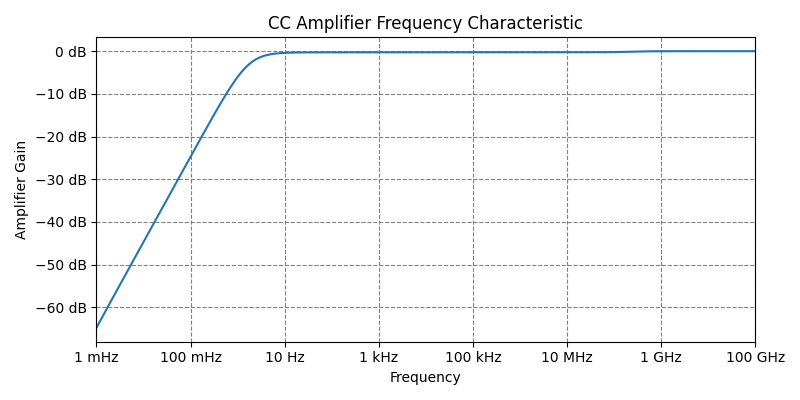
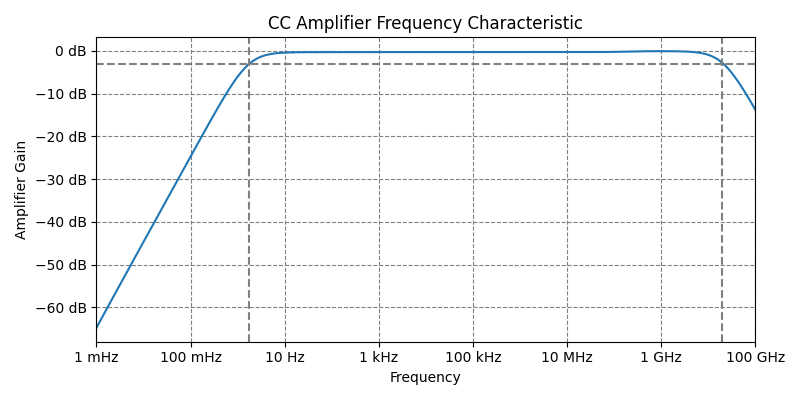
find bandwidth of cc amp and plot graph

Changed region(s): [[0.125, 0.12, 0.9375, 0.24], [0.125, 0.33, 0.9375, 0.36], [0.0625, 0.12, 0.125, 0.15]]

diff --git a/bjt-amp-lab/source code/CE-freq.py b/bjt-amp-lab/source code/CE-freq.py
@@ -17,6 +17,12 @@ def main():
 
     vout = np.array(vout)
     freq = rawdata.get_frequency()
+    max_vout = np.max(vout)
+    vout_3dB = np.max(vout) - 3
+    freq_cutoff_index = np.where(np.around(vout_3dB, decimals=0)
+                                 == np.around(vout, decimals=0))
+    low_cutoff_freq = freq[freq_cutoff_index[0][0]]
+    high_cutoff_freq = freq[freq_cutoff_index[0][1]]
 
     # vitualize data
     figure, axis1 = plt.subplots(figsize=(8, 4))
@@ -34,6 +40,9 @@ def main():
     axis1.grid(True, which="major", ls="dashed", color='grey')
 
     # display data
+    plt.axhline(y=vout_3dB, color='gray', linestyle='--')
+    plt.axvline(x=low_cutoff_freq, color='gray', linestyle='--')
+    plt.axvline(x=high_cutoff_freq, color='gray', linestyle='--')
     plt.tight_layout()
     plt.savefig(f'./figure/{filename[10:][:-4]}-freq.png')
     plt.show()
@@ -58,9 +67,12 @@ def find_bandwidth():
                                  == np.around(vout, decimals=0))
     low_cutoff_freq = freq[freq_cutoff_index[0][0]]
     high_cutoff_freq = freq[freq_cutoff_index[0][1]]
+    print(freq)
+    print(low_cutoff_freq)
+    print(high_cutoff_freq)
     print(f'Bandwidth: {high_cutoff_freq - low_cutoff_freq} Hz')
 
 
 if __name__ == '__main__':
-    # main()
-    find_bandwidth()
+    main()
+    # find_bandwidth()

diff --git a/bjt-amp-lab/source code/CC-freq.py b/bjt-amp-lab/source code/CC-freq.py
@@ -15,6 +15,13 @@ def main():
 
     vout = np.array(vout)
     freq = rawdata.get_frequency()
+    max_vout = np.max(vout)
+    vout_3dB = np.max(vout) - 3
+    freq_cutoff_index = np.where(np.around(vout_3dB, decimals=0)
+                                 == np.around(vout, decimals=0))
+    low_cutoff_freq = freq[freq_cutoff_index[0][0]]
+    high_cutoff_freq = freq[freq_cutoff_index[0][2]]
+    print(f'Bandwidth: {high_cutoff_freq - low_cutoff_freq} Hz')
 
     figure, axis1 = plt.subplots(figsize=(8, 4))
     axis1.set_xscale('log')
@@ -30,6 +37,9 @@ def main():
     axis1.xaxis.grid(True, which='minor', ls='dotted', color='lightgrey')
     axis1.grid(True, which='major', ls='dashed', color='grey')
 
+    plt.axhline(y=vout_3dB, color='gray', linestyle='--')
+    plt.axvline(x=low_cutoff_freq, color='gray', linestyle='--')
+    plt.axvline(x=high_cutoff_freq, color='gray', linestyle='--')
     plt.tight_layout()
     plt.savefig(f'./figure/{filename[10:][:-4]}-freq.png')
     plt.show()
@@ -58,5 +68,5 @@ def find_bandwidth():
 
 
 if __name__ == '__main__':
-    # main()
-    find_bandwidth()
+    main()
+    # find_bandwidth()

diff --git a/bjt-amp-lab/source code/CB-freq.py b/bjt-amp-lab/source code/CB-freq.py
@@ -58,5 +58,5 @@ def find_bandwidth():
 
 
 if __name__ == '__main__':
-    # main()
-    find_bandwidth()
+    main()
+    # find_bandwidth()
